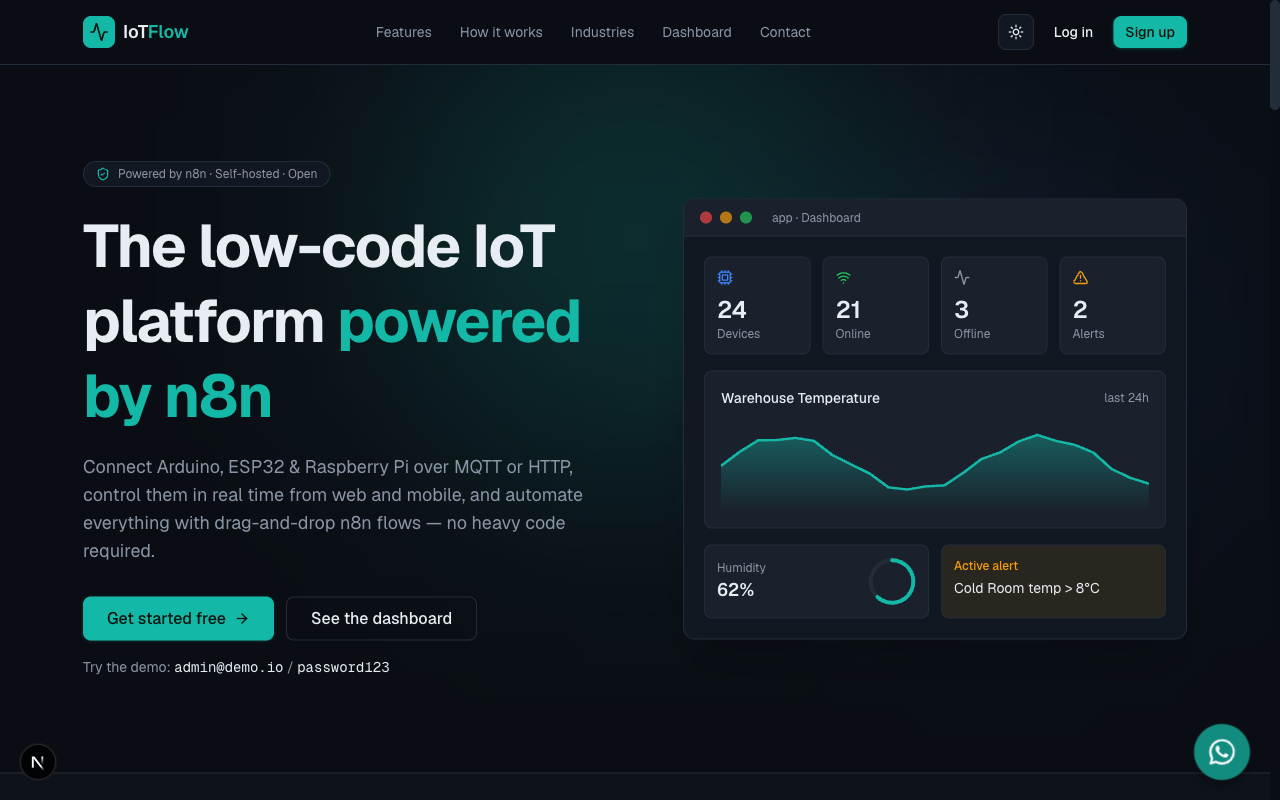
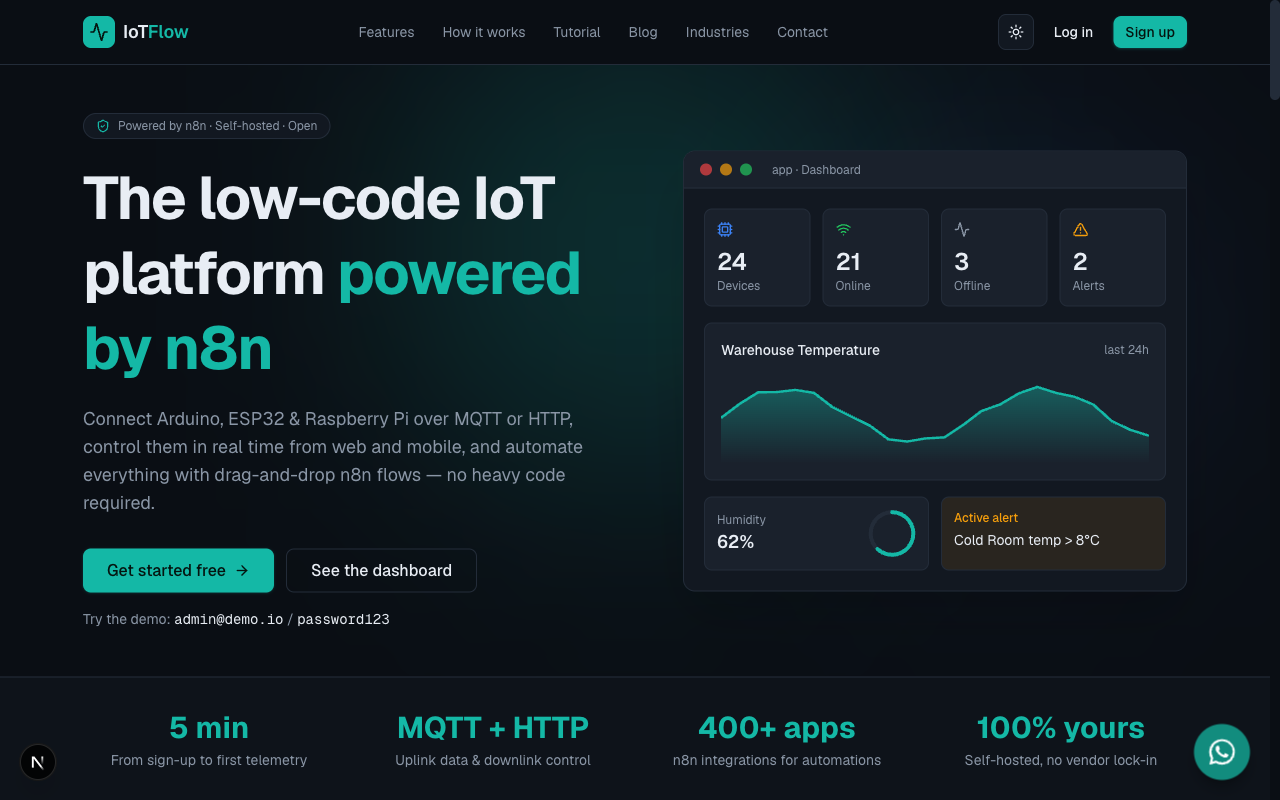
docs: reconcile README with blog, tutorials, SDKs, admin settings; refresh screenshot
- Document the blog/CMS, public tutorials, device SDKs (clients/), the in-app
  Integrate guide, and the DB-backed admin Settings (SMTP/n8n/MQTT) + RBAC.
- Update the project-structure tree (clients/, app-config, blog, seeders).
- Refresh landing screenshot.

diff --git a/README.md b/README.md
@@ -65,9 +65,12 @@ log or call AI.
   Terminal & LED widgets write to a virtual pin; the server persists the value
   and publishes it to MQTT `devices/<id>/down`. HTTP-only devices poll
   `GET /api/device/state`.
-- **Connect any device** — guided wizard with copy-paste **uplink + control**
-  code for ESP32, Arduino, Raspberry Pi, generic **C++** (Paho), **Python**
-  (paho/requests), MQTT clients and cURL.
+- **Connect any device** — guided wizard + an in-app **Integrate guide** with
+  copy-paste **uplink + control** code for ESP32, Arduino, Raspberry Pi, generic
+  **C++** (Paho), **Python** (paho/requests), MQTT clients and cURL.
+- **Device SDKs** — optional thin clients in [`clients/`](clients/): an Arduino/ESP
+  library (`virtualWrite()` + a `BLYNK_WRITE`-style callback) and a single-file,
+  zero-install Python client (`clients/python/iotflow.py`).
 - **Telemetry** — JSON ingestion over **HTTP** and **MQTT**, normalized into metrics.
 - **Real-time dashboard** — auto-refreshing summary cards + customizable widgets
   (number, line, bar, gauge, LED, device status, alert list, map + control widgets).
@@ -78,9 +81,16 @@ log or call AI.
   dashboard, automations, alerts and map; switch projects from the sidebar.
 - **Authentication** — email/password, OTP email codes, Google & GitHub OAuth
   (OAuth/SMTP activate automatically when configured); Admin & User roles.
-- **Admin area** — manage users/roles, deactivate accounts, API keys, SMTP +
-  email-on-alert, and **review landing-page enquiries** (also emailed to the
-  team). **View as** lets admins preview as a regular user.
+- **Blog / CMS** — admin-authored posts with categories, tags, social likes and
+  star reviews; public `/blog` with category/tag filters. Ships 5 IoT + n8n
+  project articles (each with an n8n workflow diagram).
+- **Step-by-step tutorials** — public `/tutorials` guides (with screenshots)
+  covering the whole loop: connect → visualise → control → automate.
+- **Admin area** — manage users/roles, deactivate accounts, API keys, blog and
+  enquiries; a **Settings** page stores SMTP, **n8n** and **MQTT** config in the
+  database (env vars are the fallback). **View as** lets admins preview as a user;
+  regular users can create projects & dashboards while device/automation/alert
+  management is admin-only.
 - **Maps** — OpenStreetMap view of GPS-enabled devices.
 - **API keys** — account-level keys for HTTP telemetry submission and n8n callbacks.
 - **Industry-focused landing page** — agriculture, industrial, smart home, energy,
@@ -138,18 +148,22 @@ log or call AI.
 ```
 iotplatform/
 ├── app/
-│   ├── (marketing)/        # industry-focused landing page
+│   ├── (marketing)/        # landing page, blog, tutorials, integrate, privacy
 │   ├── (auth)/             # login, register, forgot-password, verify-otp
-│   ├── (dashboard)/        # dashboard, devices, telemetry, alerts, automations, maps, api-keys, settings
-│   ├── api/                # route handlers (devices, telemetry, commands, automations, n8n, ...)
+│   ├── (dashboard)/        # dashboard, devices, telemetry, alerts, automations, maps,
+│   │                       # api-keys, integrate, getting-started, admin (users/blog/enquiries/settings)
+│   ├── api/                # route handlers (devices, telemetry, commands, automations,
+│   │                       # n8n, blog, admin/config, ...)
 │   └── manifest.ts         # PWA web app manifest
-├── components/             # layout, dashboard (+ control widgets), devices, automations, charts, maps, auth, ui
-├── lib/                    # auth, db, mqtt (topics + publish), telemetry, alerts,
-│                           # commands, automations (dispatch), n8n, validation, tokens
-├── prisma/                 # schema.prisma, seed.ts, migrations
+├── components/             # layout, dashboard (+ control widgets), devices, automations,
+│                           # blog, admin, marketing, charts, maps, auth, ui
+├── lib/                    # auth, db, app-config, mqtt (topics + publish), telemetry, alerts,
+│                           # commands, automations (dispatch), n8n, blog, markdown, validation, tokens
+├── clients/                # device SDKs — arduino/IoTFlow (library), python/iotflow.py
+├── prisma/                 # schema.prisma, seed.ts, demo-projects.ts, blog-seed.ts, migrations
 ├── worker/                 # mqtt-ingest.ts (long-running ingestion worker)
 ├── mosquitto/              # mosquitto.conf
-├── docs/                   # connecting-a-device.md, n8n-integration.md
+├── docs/                   # connecting-a-device.md, n8n-integration.md, mobile-apps-parity-plan.md
 ├── Dockerfile
 └── docker-compose.yml
 ```
